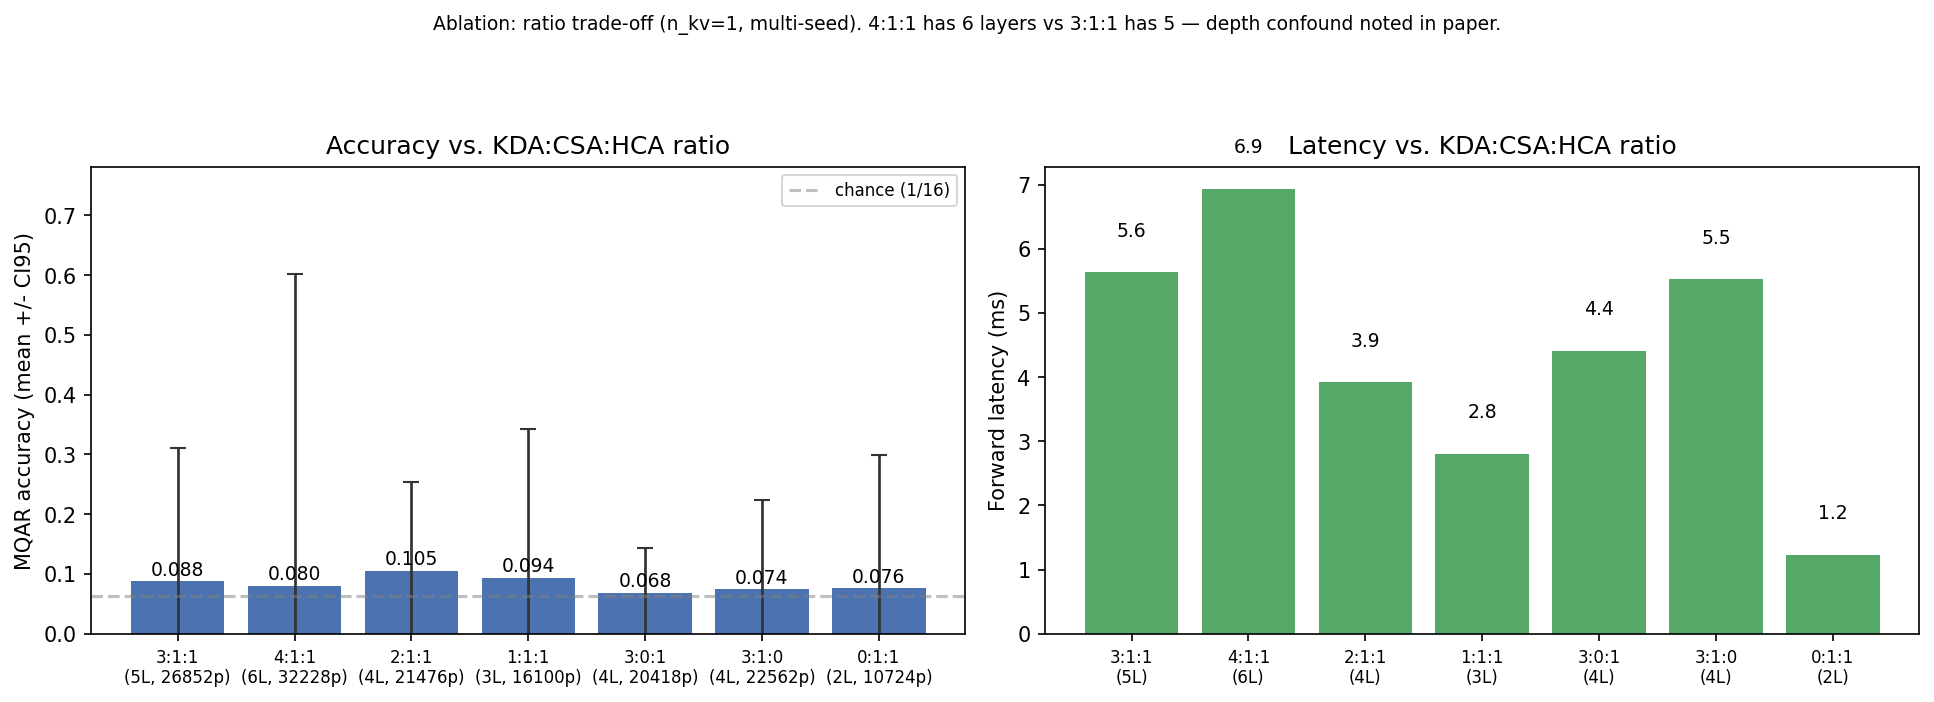
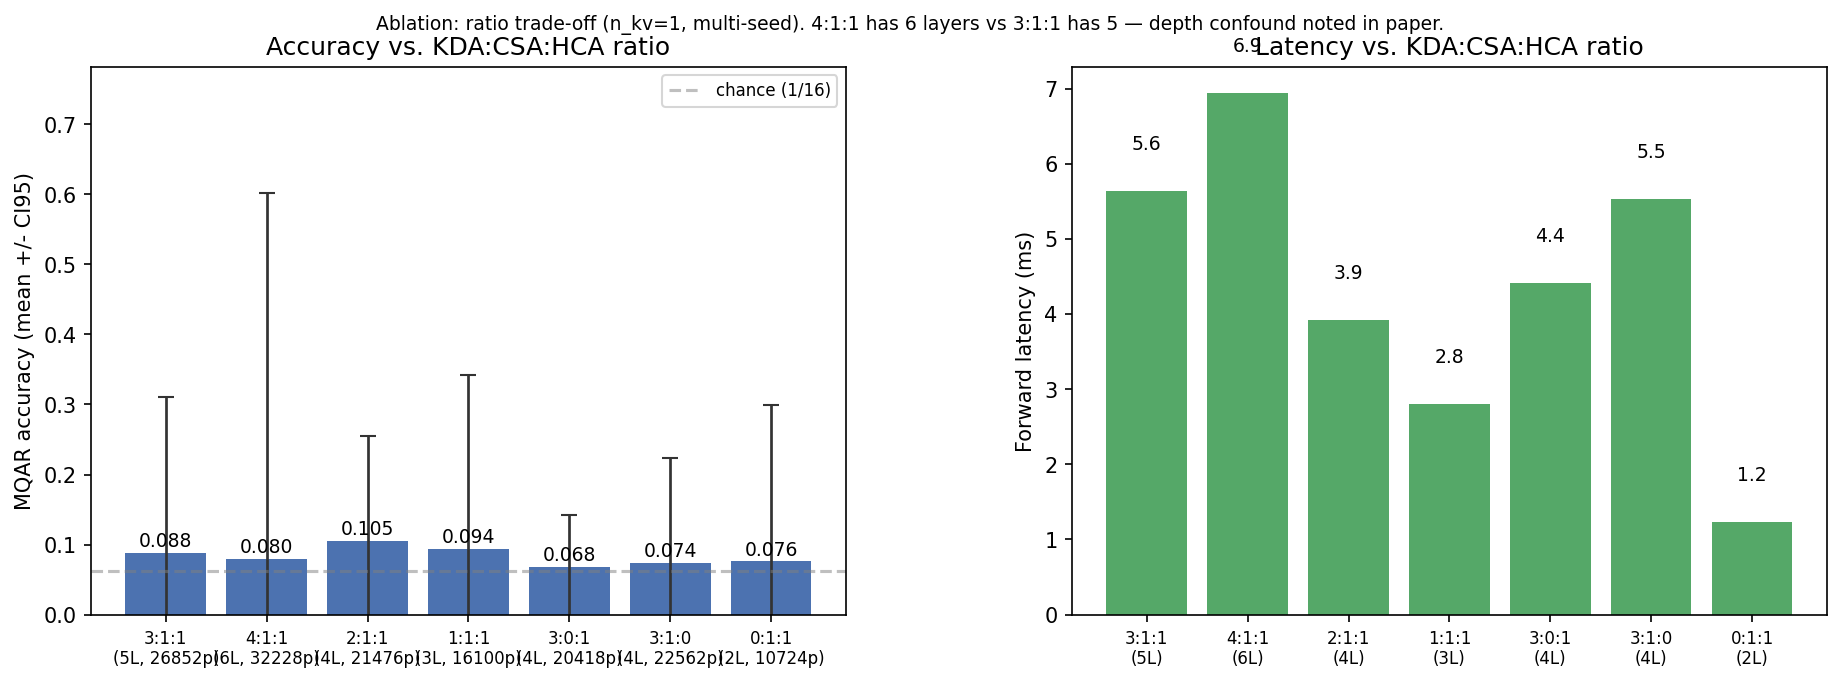
Fix tight_layout warning in ablation figure and hard-coded /tmp path in test
Two issues found during comprehensive code review and testing:

1. make_figures.py::_plot_ablation_group: tight_layout emitted UserWarning
   when suptitle + two-line x-tick labels exceeded margin bounds. Fixed by
   using subplots_adjust (direct margin control) instead of tight_layout,
   moving suptitle inside figure (y=0.98), and increasing figure height.

2. test_figures.py: BACKUP_DIR was hard-coded to /tmp/_fig_test_backups.
   Fixed to use tempfile.gettempdir() for cross-platform portability.

All 76 correctness tests, 5 figure tests, 25 comprehensive edge-case tests,
and 65 fuzz-test configs pass after the fix.

diff --git a/make_figures.py b/make_figures.py
@@ -389,7 +389,11 @@ def _plot_ablation_group(records, n_kv, write_legacy_name):
         print(f'Skipping ablation figure for n_kv={n_kv} (no records to plot)')
         return
 
-    fig, (ax1, ax2) = plt.subplots(1, 2, figsize=(13, 4.5))
+    # Use a taller figure (5.0in vs the original 4.5in) to accommodate
+    # the two-line x-tick labels (e.g. ``"3:1:1\n(5L, 26852p)"``) and the
+    # suptitle. See the ``subplots_adjust`` comment below for why we don't
+    # use ``tight_layout``.
+    fig, (ax1, ax2) = plt.subplots(1, 2, figsize=(13, 5.0))
     x = np.arange(len(ratios))
 
     # Accuracy with CI95 error bars. Error rows get a distinct color so
@@ -431,29 +435,21 @@ def _plot_ablation_group(records, n_kv, write_legacy_name):
         ax2.text(bar.get_x() + bar.get_width() / 2, bar.get_height() + 0.5,
                  label, ha='center', va='bottom', fontsize=9)
 
+    # Place the suptitle and use ``subplots_adjust`` (not ``tight_layout``) to
+    # manually control margins. ``tight_layout`` emits
+    # ``UserWarning: Tight layout not applied. The bottom and top margins
+    # cannot be made large enough to accommodate all Axes decorations.``
+    # when the figure has both a suptitle AND two-line x-tick labels (e.g.
+    # ``"3:1:1\n(5L, 26852p)"``), because its iterative constraint solver
+    # cannot converge within the default margin bounds. ``subplots_adjust``
+    # sets the margins directly (no solver), so it never warns. The values
+    # are tuned to leave room for: top=0.91 (suptitle), bottom=0.18
+    # (two-line x-tick labels), left=0.08 (y-axis label), right=0.97,
+    # wspace=0.3 (gap between the two subplots).
     fig.suptitle(f'Ablation: ratio trade-off (n_kv={n_kv}, multi-seed). '
                  '4:1:1 has 6 layers vs 3:1:1 has 5 — depth confound noted in paper.',
-                 fontsize=9, y=1.02)
-    # ``tight_layout`` constrains the AXES to the rect region so the suptitle
-    # (positioned at y=1.02, just above the figure's top edge) does not
-    # overlap any axis labels. ``rect=[0, 0, 1, 0.94]`` reserves the top 6%
-    # of the figure for the suptitle; without it, tight_layout would fill
-    # the entire figure area and the suptitle would overlap the axis titles.
-    #
-    # ``bbox_inches='tight'`` on savefig expands the saved image's bounding
-    # box to include ALL artists, even those positioned OUTSIDE the figure
-    # area (such as a suptitle at y=1.02). Without it, the suptitle is
-    # silently clipped at the top edge of the saved PDF/PNG — the previous
-    # code omitted bbox_inches='tight' and the suptitle was indeed clipped
-    # (the top half of the title text was cut off in the saved image).
-    #
-    # We use BOTH tight_layout (for in-figure axis spacing) AND
-    # bbox_inches='tight' (for the saved image's bounding box). They operate
-    # at different levels — tight_layout rearranges axes within the figure;
-    # bbox_inches='tight' expands the figure's saved bbox — so they do not
-    # conflict. (The earlier comment claiming they were mutually exclusive
-    # was wrong and led to the clipping bug.)
-    fig.tight_layout(rect=[0, 0, 1, 0.94])
+                 fontsize=9, y=0.98)
+    fig.subplots_adjust(top=0.91, bottom=0.18, left=0.08, right=0.97, wspace=0.3)
     fig.savefig(f'figures/fig_ablation_nkv{n_kv}.pdf', dpi=150,
                 bbox_inches='tight')
     fig.savefig(f'figures/fig_ablation_nkv{n_kv}.png', dpi=150,

diff --git a/test_figures.py b/test_figures.py
@@ -19,6 +19,7 @@ import json
 import os
 import shutil
 import sys
+import tempfile
 import warnings
 
 import matplotlib
@@ -33,7 +34,13 @@ import make_figures
 
 
 RESULTS_DIR = os.path.join(HERE, 'results')
-BACKUP_DIR = '/tmp/_fig_test_backups'
+# Use tempfile.gettempdir() instead of a hardcoded /tmp path so the backup
+# directory resolves correctly on platforms where /tmp does not exist
+# (e.g. Windows, or containers with a different temp root). The previous
+# hardcoded ``/tmp/_fig_test_backups`` violated the convention that all
+# test artifacts should live under a discoverable, platform-appropriate
+# temp directory.
+BACKUP_DIR = os.path.join(tempfile.gettempdir(), '_fig_test_backups')
 
 
 def _backup_results():